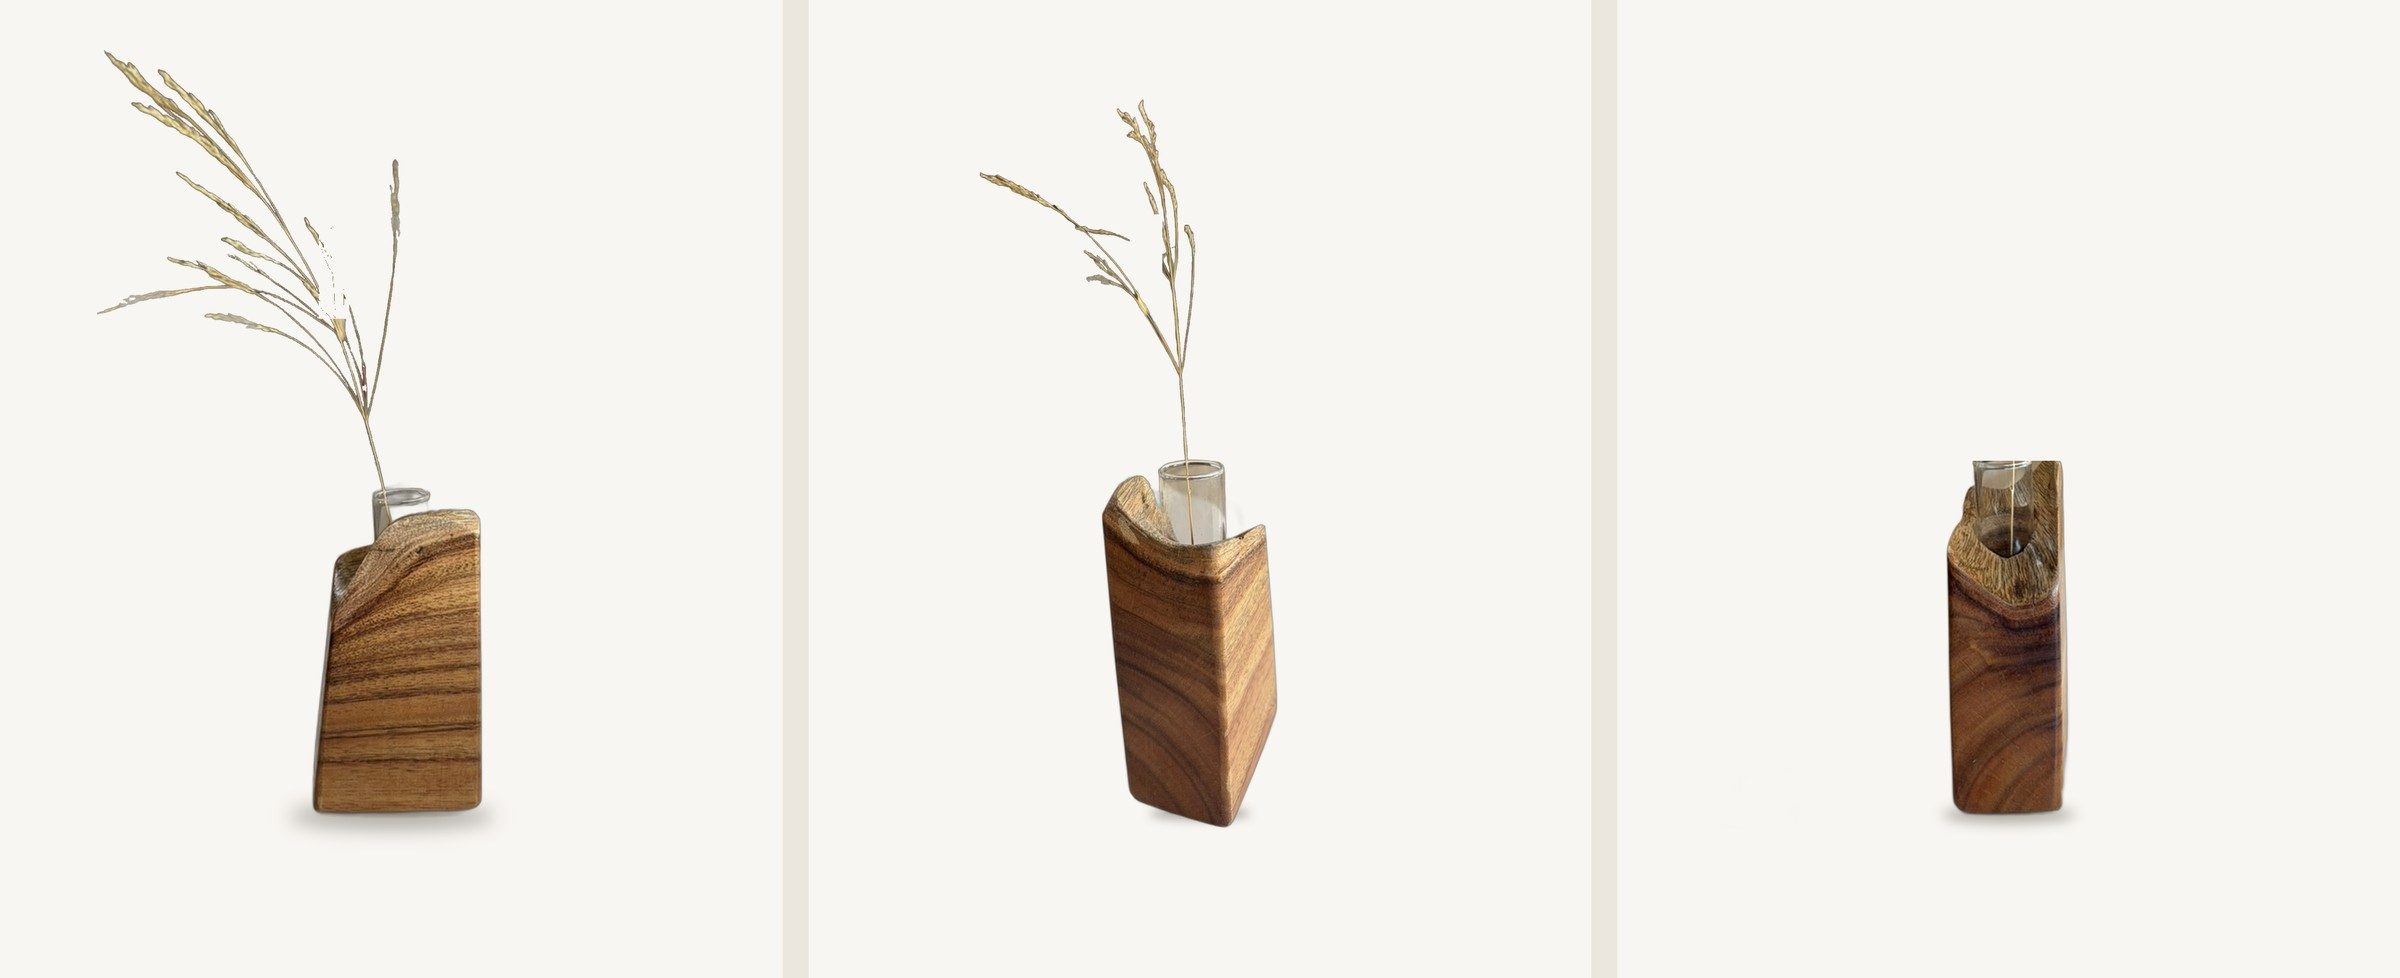
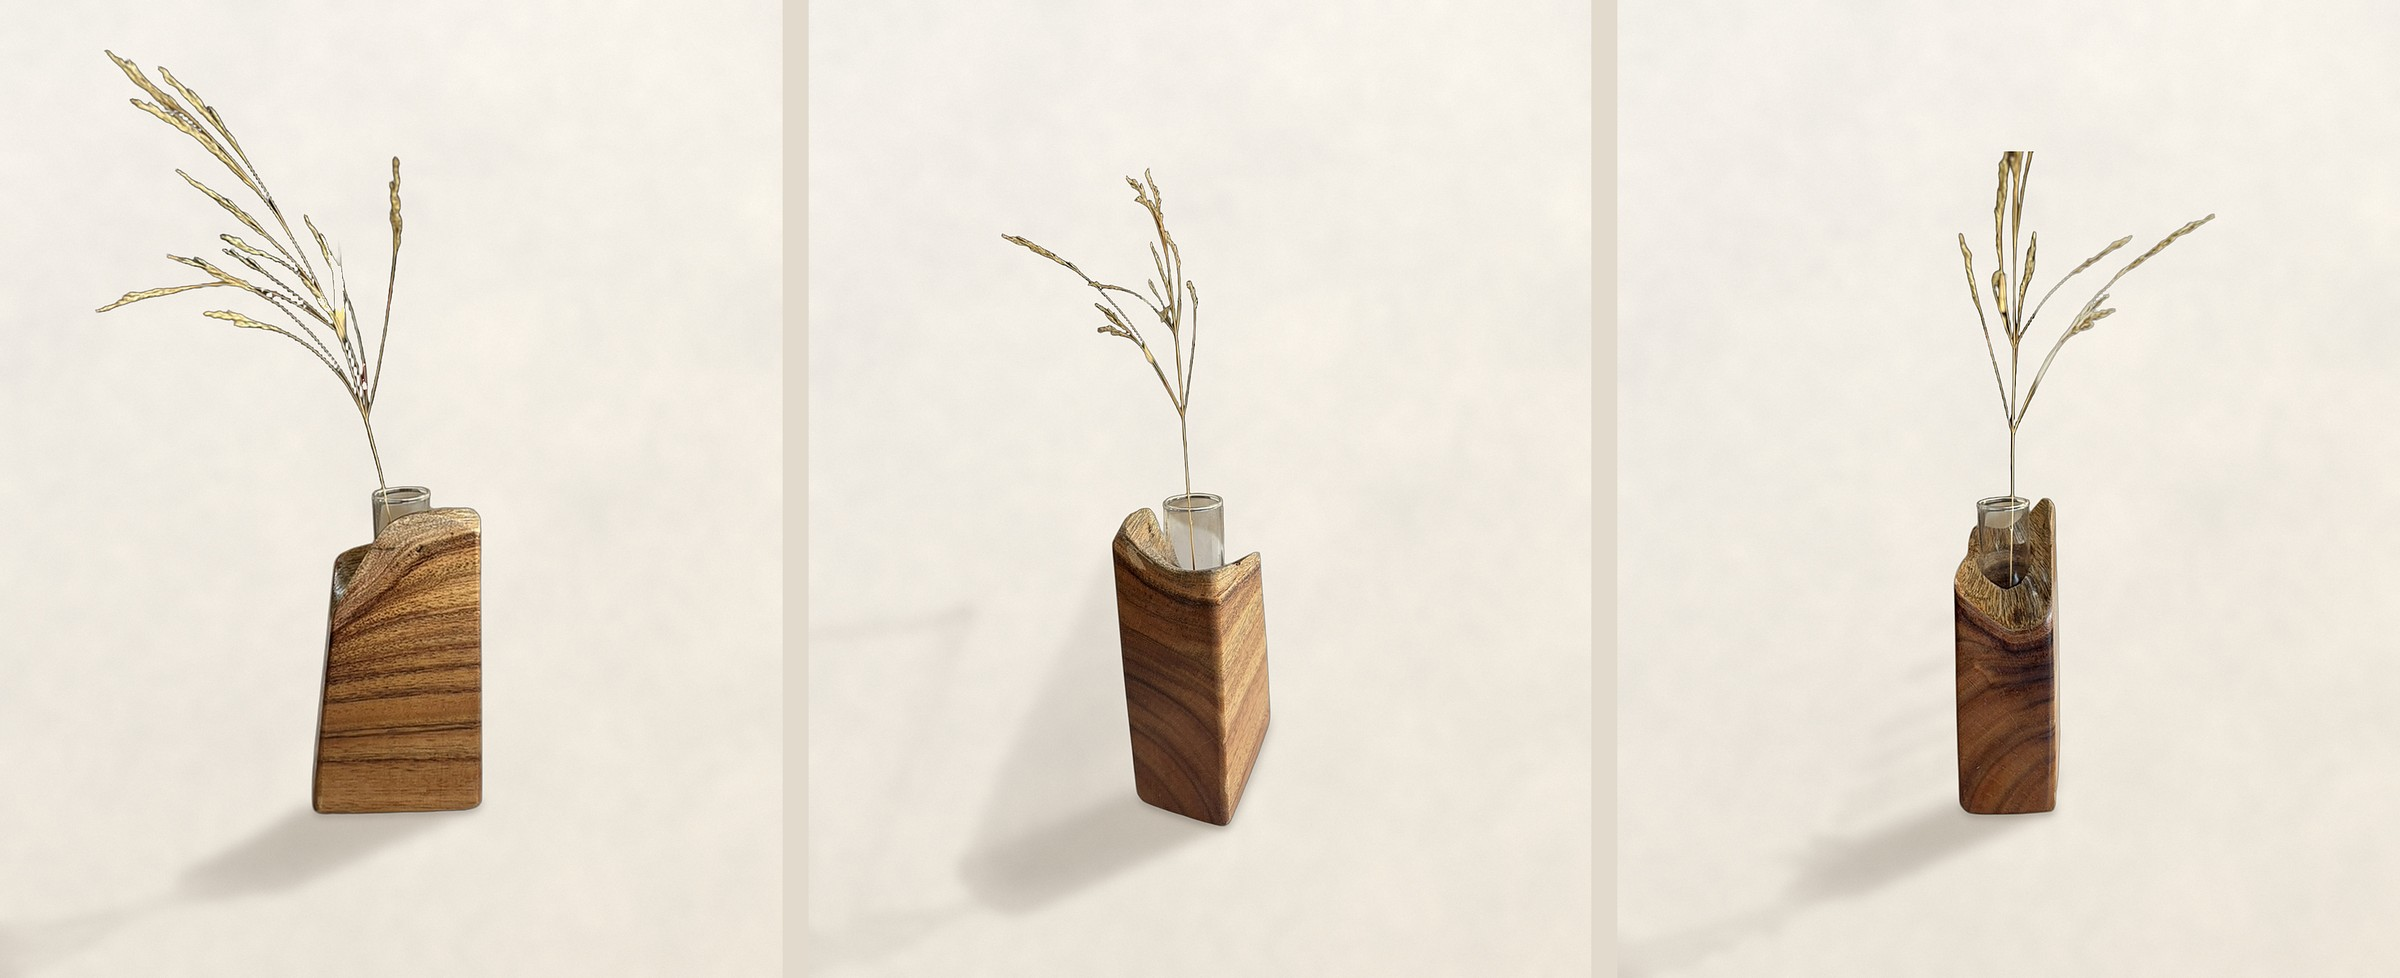
Rework product photos: full dried-grass stems, textured warm backdrop, natural cast shadow
Claude-Session: https://claude.ai/code/session_01EXRpAoJB2gK5pkBH6j8WRx

diff --git a/images/products/compose.py b/images/products/compose.py
@@ -1,113 +1,146 @@
+"""Product-photo composer: cutout (RGBA) -> textured warm backdrop + natural directional shadow.
+usage: compose2.py OUT_DIR src1.png src2.png src3.png   (suffix '^' = may run off the top edge)
+env: ERASE='{"<idx>":[[x0,y0,x1,y1,"all"|"grey"|"pale"|"brass"],...]}' canvas-space cleanups; SEED=int"""
 import sys, os, json, numpy as np
 from PIL import Image, ImageFilter, ImageDraw
-BG=(248,246,242)          # near-white warm
-GAP=(236,231,222)
-CW,CH=1080,1350           # 4:5 canvas
-BASE_Y=int(CH*0.83)       # base line
-BODY_H=int(CH*0.33)       # wood body height on canvas
+CW,CH=1080,1350
+BASE_Y=int(CH*0.83); BODY_H=int(CH*0.33)
+GAP=(226,218,204)
+SEED=int(os.environ.get('SEED','7'))
 
-def load(path):
-    im=Image.open(path).convert('RGBA'); a=np.array(im).astype(np.float32); return a
+# ---------- backdrop ----------
+def backdrop(seed):
+    rng=np.random.default_rng(seed)
+    y=np.linspace(0,1,CH)[:,None]; x=np.linspace(0,1,CW)[None,:]
+    top=np.array([246,242,235],np.float32); bot=np.array([236,229,217],np.float32)   # warm bone -> pale clay
+    img=np.broadcast_to(top*(1-y)[...,None]+bot*y[...,None],(CH,CW,3)).copy()
+    img+= (x-0.5)[...,None]*np.array([3,2,0],np.float32)                              # faint left/right light falloff
+    # soft mottling (plaster / paper), two octaves
+    for size,amp in ((18,1.6),(90,2.2)):
+        n=rng.standard_normal((CH//size+2,CW//size+2))
+        n=Image.fromarray(np.clip(n*40+128,0,255).astype(np.uint8),'L').resize((CW,CH),Image.BICUBIC)
+        n=(np.array(n.filter(ImageFilter.GaussianBlur(size*0.35)),np.float32)-128)/40
+        img+= (n*amp)[...,None]*np.array([1.0,0.9,0.75],np.float32)
+    return np.clip(img,0,255)
 
-def wood_mask(a):
-    r,g,b,al=a[...,0],a[...,1],a[...,2],a[...,3]
-    return (al>200)&(r>g)&(g>b)&((r-b)>40)
+def grain(img,rng,sigma=1.8):
+    n=rng.standard_normal(img.shape[:2]).astype(np.float32)*sigma
+    return np.clip(img+n[...,None]*np.array([1.0,0.95,0.9],np.float32),0,255)
 
-def clean(a,nograss=False):
-    """remove grey/blue ghost pixels above the glass tube; return array + metrics"""
-    w=a.shape[1]; rows=(a[...,3]>200).sum(1)
-    ys=np.where(rows>w*0.12)[0]                                                    # body = longest run of wide alpha rows
-    cuts=np.where(np.diff(ys)>1)[0]; runs=np.split(ys,cuts+1); body=max(runs,key=len)
+# ---------- cutout analysis ----------
+def load(path): return np.array(Image.open(path).convert('RGBA')).astype(np.float32)
+
+def analyse(a):
+    al=a[...,3]; w=a.shape[1]; rows=(al>200).sum(1)
+    ys=np.where(rows>w*0.12)[0]; cuts=np.where(np.diff(ys)>1)[0]; body=max(np.split(ys,cuts+1),key=len)
     wood_top,wood_bot=int(body.min()),int(body.max())
-    body_h=wood_bot-wood_top
-    zone_top=int(wood_top-0.20*body_h)
-    r,g,b,al=a[...,0],a[...,1],a[...,2],a[...,3]
-    if nograss:   # everything above the glass tube goes (tube = first row wider than 3% of the image)
-        y=wood_top; miss=0                                        # walk up from the wood: glass rows are neutral, grass rows warm
-        while y>0 and miss<4:
-            m=al[y]>128; n=int(m.sum())
-            warm_row=float((r[y]-b[y])[m].mean()) if n else 0.0
-            tube_row = (n>=30 and warm_row<12)                      # wide and neutral = glass; thin or warm = stems/grass
-            miss = 0 if (tube_row or n<3) else miss+1
-            y-=1
-        zone_top=y+miss-2
-        if wood_top-zone_top>0.5*body_h: zone_top=int(wood_top-0.20*body_h)
-    zone=np.zeros(al.shape,bool); zone[:max(zone_top,0)]=True
-    warm=(r>b+int(os.environ.get('WARM','20')))&~((r>g+50)&(r>b+50))   # keep golden grass, drop grey/blue ghosts and red tool remnants
-    kill=(zone&(al>0)) if nograss else (zone&(~warm)&(al>0))
-    a[...,3][kill]=0
-    # soften faint alpha in zone (ghost remnants)
-    faint=zone&(al<int(os.environ.get('FAINT','90')))
-    a[...,3][faint]=0
-    # alpha bottom (base)
-    al=a[...,3]; ys=np.where((al>128).sum(1)>w*0.12)[0]; base_y=ys.max()
+    base_y=wood_bot
     cols=np.where(al[base_y-5:base_y+1].max(0)>128)[0]
-    return a, dict(wood_top=wood_top,wood_bot=wood_bot,body_h=body_h,base_y=base_y,base_x0=int(cols.min()),base_x1=int(cols.max()))
+    top_rows=np.where((al>40).sum(1)>6)[0]
+    return dict(wood_top=wood_top,base_y=base_y,body_h=wood_bot-wood_top,base_x0=int(cols.min()),base_x1=int(cols.max()),top=int(top_rows.min()))
 
-def wood_lum(a):
-    wm=(a[...,3]>200)&(a[...,0]>a[...,2]); rows=(a[...,3]>200).sum(1); ys=np.where(rows>a.shape[1]*0.12)[0]
-    cuts=np.where(np.diff(ys)>1)[0]; body=max(np.split(ys,cuts+1),key=len)
-    wm[:body.min()]=False; rgb=a[...,:3][wm]; return (0.299*rgb[:,0]+0.587*rgb[:,1]+0.114*rgb[:,2]).mean()
+def clean(a,m):
+    """drop red tool remnants above the body; feather alpha slightly"""
+    r,g,b,al=a[...,0],a[...,1],a[...,2],a[...,3]
+    zone=np.zeros(al.shape,bool); zone[:m['wood_top']]=True
+    al[zone&(r>g+50)&(r>b+50)]=0
+    cool=zone&(al>0)&((r-b)<15)                      # stems that picked up the wall's cool cast: nudge warm
+    a[...,0][cool]=np.clip(r[cool]*1.06,0,255); a[...,2][cool]=b[cool]*0.92
+    al_img=Image.fromarray(al.astype(np.uint8),'L').filter(ImageFilter.GaussianBlur(0.7))
+    a[...,3]=np.array(al_img,np.float32)
+    return a
 
-def render(a,m,gain,body_h=None,erase=()):
-    scale=(body_h or BODY_H)/m['body_h']
+def wood_lum(a,m):
+    wm=(a[...,3]>200)&(a[...,0]>a[...,2]); wm[:m['wood_top']]=False
+    rgb=a[...,:3][wm]; return float((0.299*rgb[:,0]+0.587*rgb[:,1]+0.114*rgb[:,2]).mean())
+
+# ---------- shadow ----------
+def shadow_layer(alpha_canvas,bx,by,body_top_y):
+    """soft directional shadow cast by the object's own silhouette, anchored on its bottom contour.
+    light from behind-right -> shadow toward the viewer and to the left."""
+    H,W=alpha_canvas.shape
+    A=alpha_canvas/255.0
+    ys,xs=np.nonzero(A>0.05)
+    # bottom contour per column (lowest opaque pixel), smoothed
+    bottom=np.full(W,-1.0)
+    y0=int(body_top_y)                                # contour from the body only, never from the stems
+    for x in np.unique(xs):
+        col=np.where(A[y0:,x]>0.5)[0]
+        if len(col)>8: bottom[x]=col.max()+y0
+    known=bottom>=0
+    if known.sum()>2:
+        xi=np.arange(W); bottom=np.interp(xi,xi[known],bottom[known])
+    h=bottom[xs]-ys                                   # height of the pixel above the table
+    h=np.clip(h,0,None)
+    tx=xs-0.62*h; ty=bottom[xs]+0.26*h                # shear left, compress toward the viewer
+    ti=np.clip(np.round(ty).astype(int),0,H-1); tj=np.clip(np.round(tx).astype(int),0,W-1)
+    w=A[ys,xs]*np.clip(1.0-h/((by-body_top_y)*2.2),0.12,1.0)   # farther = lighter
+    sh=np.zeros((H,W),np.float32); np.add.at(sh,(ti,tj),w); sh=np.clip(sh,0,1)
+    # fill splat holes and soften: near part crisper, far part softer
+    im=Image.fromarray((sh*255).astype(np.uint8),'L')
+    near=np.array(im.filter(ImageFilter.MaxFilter(3)).filter(ImageFilter.GaussianBlur(9)),np.float32)/255
+    far=np.array(im.filter(ImageFilter.MaxFilter(3)).filter(ImageFilter.GaussianBlur(32)),np.float32)/255
+    dist=np.zeros((H,W),np.float32); dist[ti,tj]=h; dist=np.array(Image.fromarray(np.clip(dist/4,0,255).astype(np.uint8),'L').filter(ImageFilter.MaxFilter(5)).filter(ImageFilter.GaussianBlur(12)),np.float32)*4
+    t=np.clip(dist/((by-body_top_y)*1.0),0,1)
+    sh=near*(1-t)+far*t
+    # contact shadow: thin dark seam along the bottom contour
+    c=np.zeros((H,W),np.float32)
+    for x in np.where(known)[0]:
+        yb=int(bottom[x]); c[max(0,yb-2):min(H,yb+5),x]=1.0
+    c=np.array(Image.fromarray((c*255).astype(np.uint8),'L').filter(ImageFilter.GaussianBlur(5)),np.float32)/255
+    return np.clip(sh*0.42+c*0.6,0,1)
+
+# ---------- render ----------
+def render(a,m,gain,body_h,erase,rng):
+    scale=body_h/m['body_h']
     im=Image.fromarray(np.clip(a,0,255).astype(np.uint8),'RGBA')
     nw,nh=int(round(im.width*scale)),int(round(im.height*scale))
     im=im.resize((nw,nh),Image.LANCZOS)
-    # gain on rgb only
-    arr=np.array(im).astype(np.float32); arr[...,:3]=np.clip(arr[...,:3]*gain,0,255); im=Image.fromarray(arr.astype(np.uint8),'RGBA')
-    bx=(m['base_x0']+m['base_x1'])/2*scale; bw=(m['base_x1']-m['base_x0'])*scale; by=m['base_y']*scale
+    arr=np.array(im).astype(np.float32); arr[...,:3]=np.clip(arr[...,:3]*gain,0,255)
+    bx=(m['base_x0']+m['base_x1'])/2*scale; by=m['base_y']*scale
     ox=int(round(CW/2-bx)); oy=int(round(BASE_Y-by))
     if erase:
-        arr=np.array(im).astype(np.float32)
         for x0,y0,x1,y1,mode in erase:
-            X0,Y0,X1,Y1=max(0,x0-ox),max(0,y0-oy),min(im.width,x1-ox),min(im.height,y1-oy)
-            sub=arr[Y0:Y1,X0:X1]
+            X0,Y0,X1,Y1=max(0,x0-ox),max(0,y0-oy),min(nw,x1-ox),min(nh,y1-oy)
+            sub=arr[Y0:Y1,X0:X1]; lum=0.299*sub[...,0]+0.587*sub[...,1]+0.114*sub[...,2]
             if mode=='all': sub[...,3]=0
-            elif mode=='brass':
-                lum=0.299*sub[...,0]+0.587*sub[...,1]+0.114*sub[...,2]
-                sub[...,3][(lum>150)|(sub[...,1]>=sub[...,0])|((sub[...,0]-sub[...,2])<45)]=0
-            elif mode=='grey':
-                sub[...,3][(sub[...,0]-sub[...,2])<45]=0
-            else:
-                lum=0.299*sub[...,0]+0.587*sub[...,1]+0.114*sub[...,2]
-                pale=(lum>118)&((sub[...,0]-sub[...,2])<85)
-                sub[...,3][pale]=0
-        im=Image.fromarray(arr.astype(np.uint8),'RGBA')
-    canvas=Image.new('RGBA',(CW,CH),BG+(255,))
-    # shadow: soft ellipse under base
-    sh=Image.new('L',(CW,CH),0); d=ImageDraw.Draw(sh)
-    cx,cy=CW/2,BASE_Y
-    d.ellipse((cx-bw*0.66,cy-bw*0.05,cx+bw*0.66,cy+bw*0.11),fill=150)
-    sh=sh.filter(ImageFilter.GaussianBlur(float(bw*0.06)))
-    core=Image.new('L',(CW,CH),0); d=ImageDraw.Draw(core)
-    d.ellipse((cx-bw*0.50,cy-bw*0.015,cx+bw*0.50,cy+bw*0.05),fill=210)
-    core=core.filter(ImageFilter.GaussianBlur(float(bw*0.02)))
-    s=np.maximum(np.array(sh),np.array(core)).astype(np.float32)/255.0
-    c=np.array(canvas).astype(np.float32)
-    shade=np.array([70,60,50],np.float32)
-    c[...,:3]=c[...,:3]*(1-s[...,None]*0.7)+shade*(s[...,None]*0.7)
-    canvas=Image.fromarray(c.astype(np.uint8),'RGBA')
-    canvas.alpha_composite(im,(ox,oy)) if (ox>=0 and oy>=0) else canvas.alpha_composite(im.crop((max(0,-ox),max(0,-oy),im.width,im.height)),(max(0,ox),max(0,oy)))
-    return canvas.convert('RGB'), (ox,oy,nw,nh)
+            elif mode=='grey': sub[...,3][(sub[...,0]-sub[...,2])<45]=0
+            elif mode=='pale': sub[...,3][(lum>118)&((sub[...,0]-sub[...,2])<85)]=0
+            elif mode=='handle': sub[...,3][(lum>140)&((sub[...,0]-sub[...,1])<14)]=0   # pale brass tool handle, not golden grass
+            elif mode=='brass': sub[...,3][(lum>150)|(sub[...,1]>=sub[...,0])|((sub[...,0]-sub[...,2])<45)]=0
+    # place object on a transparent canvas (may overflow edges)
+    obj=np.zeros((CH,CW,4),np.float32)
+    x0,y0=max(0,ox),max(0,oy); x1,y1=min(CW,ox+nw),min(CH,oy+nh)
+    obj[y0:y1,x0:x1]=arr[y0-oy:y1-oy,x0-ox:x1-ox]
+    bg=backdrop(SEED)
+    sh=shadow_layer(obj[...,3],CW/2,BASE_Y,BASE_Y-body_h)
+    tint=np.array([88,72,58],np.float32)
+    bg=bg*(1-sh[...,None]*0.7)+tint*(sh[...,None]*0.7)
+    al=(obj[...,3]/255.0)[...,None]
+    out=bg*(1-al)+obj[...,:3]*al
+    out=Image.fromarray(out.astype(np.uint8),'RGB').filter(ImageFilter.UnsharpMask(radius=1.1,percent=85,threshold=2))
+    out=grain(np.array(out).astype(np.float32),rng)
+    return Image.fromarray(out.astype(np.uint8),'RGB')
 
 if __name__=='__main__':
-    out=sys.argv[1]; srcs=sys.argv[2:]
+    out=sys.argv[1]; srcs=sys.argv[2:]; rng=np.random.default_rng(SEED)
+    erase_all=json.loads(os.environ.get('ERASE','{}'))
     data=[]
     for p in srcs:
-        ng=p.endswith('!'); p=p.rstrip('!'); a=load(p); a,m=clean(a,ng); data.append((a,m,wood_lum(a)))
-    med=np.median([d[2] for d in data])
+        overflow=p.endswith('^'); p=p.rstrip('^')
+        a=load(p); m=analyse(a); a=clean(a,m); data.append((a,m,wood_lum(a,m),overflow))
+    med=float(np.median([d[2] for d in data]))
     body_h=BODY_H
-    for a,m,l in data:
-        al=a[...,3]; top=int(np.where((al>40).sum(1)>6)[0].min())
-        avail=BASE_Y-int(CH*0.05); need=(m['base_y']-top)/m['body_h']
+    for a,m,l,ov in data:
+        if ov: continue
+        avail=BASE_Y-int(CH*0.05); need=(m['base_y']-m['top'])/m['body_h']
         body_h=min(body_h,int(avail/need))
     print('body_h',body_h)
     singles=[]
-    for k,(a,m,l) in enumerate(data):
+    for k,(a,m,l,ov) in enumerate(data):
         gain=float(np.clip(med/l,0.94,1.06))
-        img,geo=render(a,m,gain,body_h,json.loads(os.environ.get('ERASE','{}')).get(str(k),())); print(srcs[k],'gain',round(gain,3),'geo',geo)
-        img.save(f'{out}/single_{k+1}.jpg',quality=94,subsampling=0); singles.append(img)
+        img=render(a,m,gain,body_h,erase_all.get(str(k),()),np.random.default_rng(SEED+k))
+        img.save(f'{out}/single_{k+1}.jpg',quality=94,subsampling=0); singles.append(img); print(srcs[k],'gain',round(gain,3))
     gap=36
     col=Image.new('RGB',(CW*3+gap*2,CH),GAP)
     for k,s in enumerate(singles): col.paste(s,(k*(CW+gap),0))
